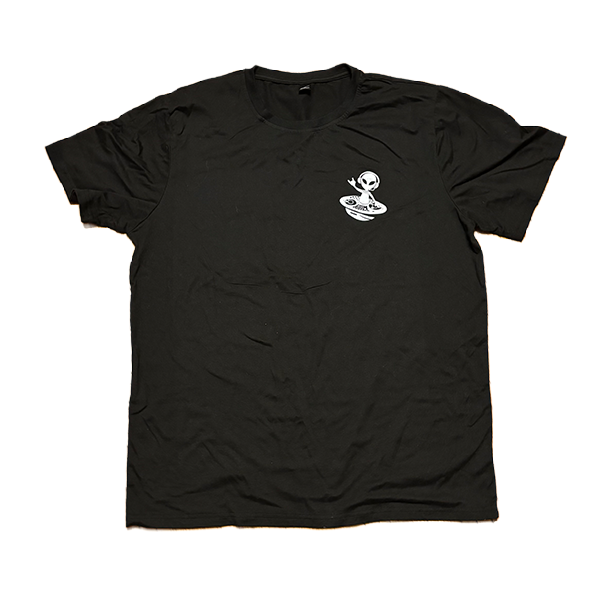
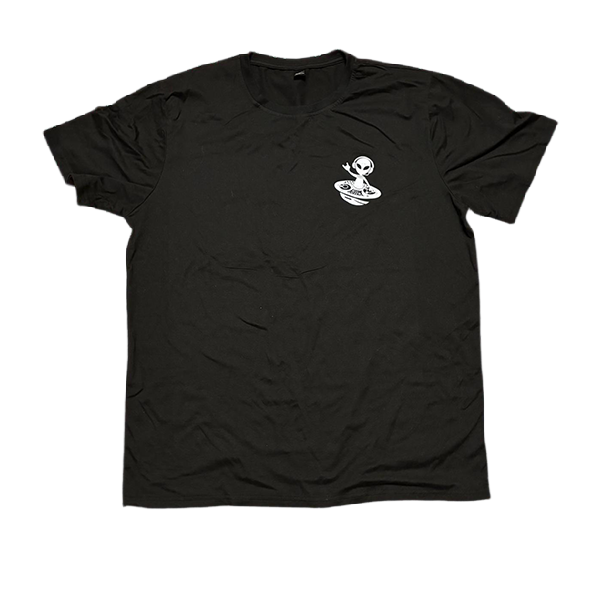
add

diff --git a/index.html b/index.html
@@ -659,6 +659,28 @@
                         <p><strong>$30</strong></p>
                         <a href="https://www.depop.com/products/sourcecodevintage-wrestlemania-iv-4-official-merch/" target="_blank"><button>Buy</button></a>
                     </div>
+
+                    <!-- Cable Mad Engine Tee -->
+                    <div class="product-card">
+                        <h3>Cable Tee</h3>
+                        <div class="contact-image-spacerT">
+                            <section id="spinning-image-section">
+                                <div class="cardT-container">
+                                    <div class="cardT">
+                                        <div class="card-face front">
+                                            <img src="imgs/tee.pngs/cableFront.png" alt="Front Image">
+                                        </div>
+                                        <div class="card-face back">
+                                            <img src="imgs/tee.pngs/cableBack.png" alt="Back Image">
+                                        </div>
+                                    </div>
+                                </div>
+                            </section>
+                        </div>                        
+                        <h5>Mens XL</h5>
+                        <p><strong>$30</strong></p>
+                        <a href="https://www.depop.com/products/sourqecodevintage-marvel-deadpool-and-cable-tie-dye-4ae3" target="_blank"><button>Buy</button></a>
+                    </div>
                     
                     <!-- Young Frank Tee -->
                     <div class="product-card">
@@ -801,6 +823,50 @@
                         <a href="https://www.depop.com/products/sourcecodevintage-fruit-of-the-loom-beer/" target="_blank"><button>Buy</button></a>
                     </div>
 
+                    <!-- Alien DJ Tee -->
+                    <div class="product-card">
+                        <h3>Alien DJ Tee</h3>
+                        <div class="contact-image-spacerT">
+                            <section id="spinning-image-section">
+                                <div class="cardT-container">
+                                    <div class="cardT">
+                                        <div class="card-face front">
+                                            <img src="imgs/tee.pngs/alienDJFront.png" alt="Front Image">
+                                        </div>
+                                        <div class="card-face back">
+                                            <img src="imgs/tee.pngs/alienDJBack.png" alt="Back Image">
+                                        </div>
+                                    </div>
+                                </div>
+                            </section>
+                        </div>                        
+                        <h5>Mens XL</h5>
+                        <p><strong>$30</strong></p>
+                        <a href="https://www.depop.com/products/sourcecodevinnage-black-manfinity-t-shirt-with-white-4929/" target="_blank"><button>Buy</button></a>
+                    </div>
+
+                    <!-- Chicken Mountain Tee -->
+                    <div class="product-card">
+                        <h3>Chicken Mountain Tee</h3>
+                        <div class="contact-image-spacerT">
+                            <section id="spinning-image-section">
+                                <div class="cardT-container">
+                                    <div class="cardT">
+                                        <div class="card-face front">
+                                            <img src="imgs/tee.pngs/chickenFront.png" alt="Front Image">
+                                        </div>
+                                        <div class="card-face back">
+                                            <img src="imgs/tee.pngs/chickenBack.png" alt="Back Image">
+                                        </div>
+                                    </div>
+                                </div>
+                            </section>
+                        </div>                        
+                        <h5>Mens S</h5>
+                        <p><strong>$25</strong></p>
+                        <a href="https://www.depop.com/products/sourcecodevinta5e-the-mountain-chicken-graphic-tee-822d" target="_blank"><button>Buy</button></a>
+                    </div>
+
                     <!-- Swan Top -->
                     <div class="product-card">
                         <h3>Swan Top</h3>
@@ -933,6 +999,28 @@
                         <a href="https://www.depop.com/products/s2urcecodevintage-dragon-ball-z-x-primitive-de16" target="_blank"><button>Buy</button></a>
                     </div>
 
+                     <!-- Billionaire Boys Club Shirt -->
+                    <div class="product-card">
+                        <h3>Billionaire Boys Club Shirt</h3>
+                        <div class="contact-image-spacerT">
+                            <section id="spinning-image-section">
+                                <div class="cardT-container">
+                                    <div class="cardT">
+                                        <div class="card-face front">
+                                            <img src="imgs/tee.pngs/bbcFront.png" alt="Front Image">
+                                        </div>
+                                        <div class="card-face back">
+                                            <img src="imgs/tee.pngs/bbcBack.png" alt="Back Image">
+                                        </div>
+                                    </div>
+                                </div>
+                            </section>
+                        </div>
+                        <h5>Mens 2XL</h5>
+                        <p><strong>$45</strong></p>
+                        <a href="https://www.depop.com/products/sourcecodevin7age-billionaire-boys-club-white-cotton-4c58" target="_blank"><button>Buy</button></a>
+                    </div>
+
                     <!-- Red Car Shirt -->
                     <div class="product-card">
                         <h3>JustDrift Shirt</h3>
@@ -977,6 +1065,28 @@
                         <a href="https://www.depop.com/products/sourcecodevintage-sedition-nightmares-joan-jett/" target="_blank"><button>Buy</button></a>
                     </div>
 
+                    <!-- Playstation Tee -->
+                    <div class="product-card">
+                        <h3>Playstation Tee</h3>
+                        <div class="contact-image-spacerT">
+                            <section id="spinning-image-section">
+                                <div class="cardT-container">
+                                    <div class="cardT">
+                                        <div class="card-face front">
+                                            <img src="imgs/tee.pngs/playstationFront.png" alt="Front Image">
+                                        </div>
+                                        <div class="card-face back">
+                                            <img src="imgs/tee.pngs/playstationBack.png" alt="Back Image">
+                                        </div>
+                                    </div>
+                                </div>
+                            </section>
+                        </div>
+                        <h5>Mens L</h5>
+                        <p><strong>$25</strong></p>
+                        <a href="https://www.depop.com/products/sourcecodevin4age-playstation-promo-tshirt-playstation-gaming-3880" target="_blank"><button>Buy</button></a>
+                    </div>
+
                     <!-- Ren & Stimpy Tee -->
                     <div class="product-card">
                         <h3>Ren & Stimpy Tee</h3>
@@ -999,6 +1109,28 @@
                         <a href="https://www.depop.com/products/sourcecodevintxge-grey-and-stimpy-nickelodeon-tank-23af" target="_blank"><button>Buy</button></a>
                     </div>
 
+                    <!-- Naruto Tee -->
+                    <div class="product-card">
+                        <h3>Naruto Tee</h3>
+                        <div class="contact-image-spacerT">
+                            <section id="spinning-image-section">
+                                <div class="cardT-container">
+                                    <div class="cardT">
+                                        <div class="card-face front">
+                                            <img src="imgs/tee.pngs/naruto2Front.png" alt="Front Image">
+                                        </div>
+                                        <div class="card-face back">
+                                            <img src="imgs/tee.pngs/naruto2Back.png" alt="Back Image">
+                                        </div>
+                                    </div>
+                                </div>
+                            </section>
+                        </div>
+                        <h5>Mens 2XL</h5>
+                        <p><strong>$27</strong></p>
+                        <a href="https://www.depop.com/products/sourcecodehintage-naruto-kakashi-t-shirt-with-graphic-0455" target="_blank"><button>Buy</button></a>
+                    </div>
+
                     <!-- NoBoundaries Shirt -->
                     <div class="product-card">
                         <h3>NoBoundaries Shirt</h3>
@@ -1019,6 +1151,28 @@
                         <h5>Mens 2XL</h5>
                         <p><strong>$15</strong></p>
                         <a href="https://www.depop.com/products/sourcecodevintage-no-boundaries-green-shirt-size/" target="_blank"><button>Buy</button></a>
+                    </div>
+
+                    <!-- Asteroids Galaxy Tour Shirt -->
+                    <div class="product-card">
+                        <h3>Asteroids Galaxy Tour Shirt</h3>
+                        <div class="contact-image-spacerT">
+                            <section id="spinning-image-section">
+                                <div class="cardT-container">
+                                    <div class="cardT">
+                                        <div class="card-face front">
+                                            <img src="imgs/tee.pngs/asteroidsFront.png" alt="Front Image">
+                                        </div>
+                                        <div class="card-face back">
+                                            <img src="imgs/tee.pngs/asteroidsBack.png" alt="Back Image">
+                                        </div>
+                                    </div>
+                                </div>
+                            </section>
+                        </div>
+                        <h5>Womens S</h5>
+                        <p><strong>$45</strong></p>
+                        <a href="https://www.depop.com/products/sourcecodevintage-asteroids-galaxy-tour-band-tee" target="_blank"><button>Buy</button></a>
                     </div>
 
                     <!-- Captain America Shirt -->
